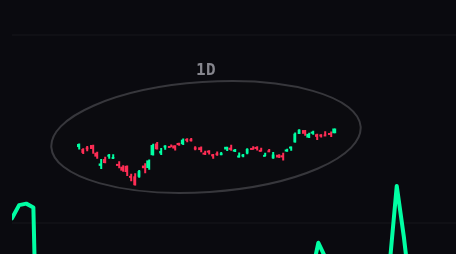
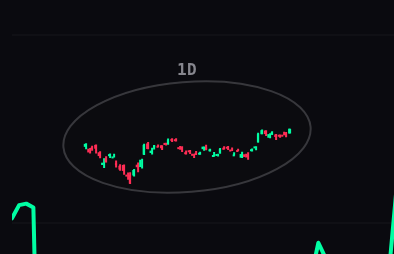
S8: the phone lens smaller — the oval's long axis 0.32 of the pane width on a phone (was 0.40; desktop stays 0.28)
Coordinator, 2 Oct, after the first measurement: at 0.40 the phone oval covered as much as the card it replaced
(TARGETS 390: 47,216 → 49,988 px², +6%; INTRADAY 1H 390: 23,608 → 24,504, +4%). At 0.32, re-measured headlessly on
the same walls: TARGETS 390 47,216 → 38,482 px² (−18%, 3.2% → 2.6% of the panes; 125 × 48 ovals, AVGO 125 × 56);
INTRADAY 1H 390 23,608 → 19,635 px² (−17%). The share is the one constant OVAL.long.phone in
_indicators/station-lens.mjs, which both chart copies load; chart/index.html and station-shells/chart-v1/index.html
carry no number and stay byte-identical. The axis-length test pins 0.32 (390 px pane → 125 px long axis); the
deliverable page carries the new 390 before/after rows and pictures. 944 tests, the 18 known failures only.

diff --git a/deliverables/20261002/station-floorplan/STATION-OVAL-FLOORPLAN.html b/deliverables/20261002/station-floorplan/STATION-OVAL-FLOORPLAN.html
@@ -18,7 +18,7 @@ ol li, ul li{ margin:4px 0; max-width:900px; } .box{ background:var(--panel); bo
 a{ color:#9AB8E0; } @media (max-width:800px){ .pair{ grid-template-columns:1fr; } main{ padding:16px; } }
 </style></head><body><main>
 <h1>Station · the context lens as an oval, and the X-strip floor plan</h1>
-<div class=meta>2 Oct 2026 · branch <code>station/s8-oval-lens-floorplan-20261002</code> at <code>f57a346 (the lens) + the deliverable commit after it</code>, built on today's live Station (fa37455) · nothing deployed, nothing on your screen · every picture here was taken in a hidden browser</div>
+<div class=meta>2 Oct 2026 · branch <code>station/s8-oval-lens-floorplan-20261002</code> at <code>f57a346 (the lens) · b966dbb (this page) · the 0.32 phone share commit after it</code>, built on today's live Station (fa37455) · nothing deployed, nothing on your screen · every picture here was taken in a hidden browser</div>
 
 <div class=box><b>In one minute.</b>
 <p>1 · The context lens (the small zoomed-out candle chart that sits in the empty part of each pane) is now an <b>oval</b> instead of a card. Its long side runs from the first candle to the last, so it tilts with the series; its short side is only as tall as the candles need. It covers about half of what the card covered. The deck's ⋯ menu has a switch: <b>lens: oval · box</b> (oval by default; box is the old card). Tests: 944, the 18 known failures only.</p>
@@ -28,17 +28,17 @@ a{ color:#9AB8E0; } @media (max-width:800px){ .pair{ grid-template-columns:1fr; 
 <blockquote>"Context lens oval-like shaped, from starting point to ending point, to save as much screen real estate as possible."</blockquote>
 <div class=pair><figure><img src='shots/before-targets3D-1680-pane.png' alt='BEFORE · TARGETS · 3-day · 1680 wide · the GOOGL pane with the card' loading='lazy'><figcaption>BEFORE · TARGETS · 3-day · 1680 wide · the GOOGL pane with the card</figcaption></figure><figure><img src='shots/after-targets3D-1680-pane.png' alt='AFTER · TARGETS · 3-day · 1680 wide · the GOOGL pane with the oval' loading='lazy'><figcaption>AFTER · TARGETS · 3-day · 1680 wide · the GOOGL pane with the oval</figcaption></figure></div><div class=pair><figure><img src='shots/before-targets3D-1680-lens.png' alt='BEFORE · TARGETS · 3-day · 1680 wide · the card, close' loading='lazy'><figcaption>BEFORE · TARGETS · 3-day · 1680 wide · the card, close</figcaption></figure><figure><img src='shots/after-targets3D-1680-lens.png' alt='AFTER · TARGETS · 3-day · 1680 wide · the oval, close' loading='lazy'><figcaption>AFTER · TARGETS · 3-day · 1680 wide · the oval, close</figcaption></figure></div><div class=pair><figure><img src='shots/before-intraday1h-1680-pane.png' alt='BEFORE · INTRADAY · 1H · 1680 wide · the QQQ pane with the card' loading='lazy'><figcaption>BEFORE · INTRADAY · 1H · 1680 wide · the QQQ pane with the card</figcaption></figure><figure><img src='shots/after-intraday1h-1680-pane.png' alt='AFTER · INTRADAY · 1H · 1680 wide · the QQQ pane with the oval' loading='lazy'><figcaption>AFTER · INTRADAY · 1H · 1680 wide · the QQQ pane with the oval</figcaption></figure></div><div class=pair><figure><img src='shots/before-intraday1h-1680-lens.png' alt='BEFORE · INTRADAY · 1H · 1680 wide · the card, close' loading='lazy'><figcaption>BEFORE · INTRADAY · 1H · 1680 wide · the card, close</figcaption></figure><figure><img src='shots/after-intraday1h-1680-lens.png' alt='AFTER · INTRADAY · 1H · 1680 wide · the oval, close' loading='lazy'><figcaption>AFTER · INTRADAY · 1H · 1680 wide · the oval, close</figcaption></figure></div><div class=pair><figure><img src='shots/before-targets3D-390-pane.png' alt='BEFORE · TARGETS · 3-day · phone 390 · the GOOGL pane with the card' loading='lazy'><figcaption>BEFORE · TARGETS · 3-day · phone 390 · the GOOGL pane with the card</figcaption></figure><figure><img src='shots/after-targets3D-390-pane.png' alt='AFTER · TARGETS · 3-day · phone 390 · the GOOGL pane with the oval' loading='lazy'><figcaption>AFTER · TARGETS · 3-day · phone 390 · the GOOGL pane with the oval</figcaption></figure></div><div class=pair><figure><img src='shots/before-targets3D-390-lens.png' alt='BEFORE · TARGETS · 3-day · phone 390 · the card, close' loading='lazy'><figcaption>BEFORE · TARGETS · 3-day · phone 390 · the card, close</figcaption></figure><figure><img src='shots/after-targets3D-390-lens.png' alt='AFTER · TARGETS · 3-day · phone 390 · the oval, close' loading='lazy'><figcaption>AFTER · TARGETS · 3-day · phone 390 · the oval, close</figcaption></figure></div><div class=pair><figure><img src='shots/before-intraday1h-390-pane.png' alt='BEFORE · INTRADAY · 1H · phone 390 · the QQQ pane with the card' loading='lazy'><figcaption>BEFORE · INTRADAY · 1H · phone 390 · the QQQ pane with the card</figcaption></figure><figure><img src='shots/after-intraday1h-390-pane.png' alt='AFTER · INTRADAY · 1H · phone 390 · the QQQ pane with the oval' loading='lazy'><figcaption>AFTER · INTRADAY · 1H · phone 390 · the QQQ pane with the oval</figcaption></figure></div><div class=pair><figure><img src='shots/before-intraday1h-390-lens.png' alt='BEFORE · INTRADAY · 1H · phone 390 · the card, close' loading='lazy'><figcaption>BEFORE · INTRADAY · 1H · phone 390 · the card, close</figcaption></figure><figure><img src='shots/after-intraday1h-390-lens.png' alt='AFTER · INTRADAY · 1H · phone 390 · the oval, close' loading='lazy'><figcaption>AFTER · INTRADAY · 1H · phone 390 · the oval, close</figcaption></figure></div>
 <h3>What the pictures show</h3>
-<p>Before: a card with a cut corner, 93 × 62 px on an 8-up pane, with the timeframe in its head. After: the same candles inside an oval whose long axis is 28% of the pane's width (40% on a phone) and runs from the first candle to the last — a rising series tilts the oval up to the right, a falling one down. The short axis is the least that keeps every candle inside, plus 3 px of air, in 4 px steps so a tick does not resize it. No card, no head: the timeframe (and STALE when the bars are old) sits in a small row above the oval. The forming (dashed) candle stays. The oval goes exactly where the card's rule put the card: the emptiest dark space, never over the newest fifth of the line, never on the ticker badge, the Geiger chip, the crosshair readout or the deck's arrows; bottom-left when that is as empty as anywhere; it holds its place until somewhere is clearly emptier.</p>
+<p>Before: a card with a cut corner, 93 × 62 px on an 8-up pane, with the timeframe in its head. After: the same candles inside an oval whose long axis is 28% of the pane's width (32% on a phone — the first build used 40%, which covered as much as the card there; 0.32 was set after that measurement) and runs from the first candle to the last — a rising series tilts the oval up to the right, a falling one down. The short axis is the least that keeps every candle inside, plus 3 px of air, in 4 px steps so a tick does not resize it. No card, no head: the timeframe (and STALE when the bars are old) sits in a small row above the oval. The forming (dashed) candle stays. The oval goes exactly where the card's rule put the card: the emptiest dark space, never over the newest fifth of the line, never on the ticker badge, the Geiger chip, the crosshair readout or the deck's arrows; bottom-left when that is as empty as anywhere; it holds its place until somewhere is clearly emptier.</p>
 <h3>Pixels covered, pane by pane (measured on the pictures above)</h3>
-<table><tr><th>wall</th><th class=n>panes</th><th class=n>covered before (card)</th><th class=n>covered after (oval)</th><th class=n>change</th><th class=n>share of the pane, before → after</th></tr><tr><td>TARGETS · 3-day · 1680 wide</td><td class=n>8 panes</td><td class=n>44,012</td><td class=n>35,288</td><td class=n><span class='up'>-20%</span></td><td class=n>5.0% → 4.0%</td></tr><tr><td>INTRADAY · 1H · 1680 wide</td><td class=n>4 panes</td><td class=n>42,022</td><td class=n>36,914</td><td class=n><span class='up'>-12%</span></td><td class=n>4.8% → 4.2%</td></tr><tr><td>TARGETS · 3-day · phone 390</td><td class=n>8 panes</td><td class=n>47,216</td><td class=n>49,988</td><td class=n><span class='down'>+6%</span></td><td class=n>3.2% → 3.4%</td></tr><tr><td>INTRADAY · 1H · phone 390</td><td class=n>4 panes</td><td class=n>23,608</td><td class=n>24,504</td><td class=n><span class='down'>+4%</span></td><td class=n>3.2% → 3.3%</td></tr></table>
-<h4>TARGETS · 3-day · 1680 wide</h4><table><tr><th>pane</th><th class=n>pane size</th><th class=n>covered before (card)</th><th class=n>covered after (oval)</th><th class=n>change</th><th class=n>the oval: long × short, tilt</th><th>where the rule put it</th></tr><tr><td><b>GOOGL</b></td><td class=n>419×263</td><td class=n>5,734</td><td class=n>4,411</td><td class=n><span class='up'>-23%</span></td><td class=n>117 × 48 px, -2°</td><td class=why>held: the emptiest dark space is not meaningfully emptier</td></tr><tr><td><b>NBIS</b></td><td class=n>419×263</td><td class=n>5,734</td><td class=n>4,411</td><td class=n><span class='up'>-23%</span></td><td class=n>117 × 48 px, +6°</td><td class=why>held: the emptiest dark space is not meaningfully emptier</td></tr><tr><td><b>AVGO</b></td><td class=n>419×263</td><td class=n>5,734</td><td class=n>5,146</td><td class=n><span class='up'>-10%</span></td><td class=n>117 × 56 px, +7°</td><td class=why>held: the emptiest dark space is not meaningfully emptier</td></tr><tr><td><b>BE</b></td><td class=n>419×263</td><td class=n>5,734</td><td class=n>4,411</td><td class=n><span class='up'>-23%</span></td><td class=n>117 × 48 px, +3°</td><td class=why>held: the emptiest dark space is not meaningfully emptier</td></tr><tr><td><b>AMZN</b></td><td class=n>419×263</td><td class=n>5,269</td><td class=n>4,411</td><td class=n><span class='up'>-16%</span></td><td class=n>117 × 48 px, +2°</td><td class=why>held: the emptiest dark space is not meaningfully emptier</td></tr><tr><td><b>VST</b></td><td class=n>419×263</td><td class=n>5,269</td><td class=n>3,676</td><td class=n><span class='up'>-30%</span></td><td class=n>117 × 40 px, -5°</td><td class=why>held: the emptiest dark space is not meaningfully emptier</td></tr><tr><td><b>MU</b></td><td class=n>419×263</td><td class=n>5,269</td><td class=n>4,411</td><td class=n><span class='up'>-16%</span></td><td class=n>117 × 48 px, +11°</td><td class=why>held: the emptiest dark space is not meaningfully emptier</td></tr><tr><td><b>WMT</b></td><td class=n>419×263</td><td class=n>5,269</td><td class=n>4,411</td><td class=n><span class='up'>-16%</span></td><td class=n>117 × 48 px, -7°</td><td class=why>held: the emptiest dark space is not meaningfully emptier</td></tr></table><h4>INTRADAY · 1H · 1680 wide</h4><table><tr><th>pane</th><th class=n>pane size</th><th class=n>covered before (card)</th><th class=n>covered after (oval)</th><th class=n>change</th><th class=n>the oval: long × short, tilt</th><th>where the rule put it</th></tr><tr><td><b>QQQ</b></td><td class=n>840×263</td><td class=n>11,168</td><td class=n>10,336</td><td class=n><span class='up'>-7%</span></td><td class=n>235 × 56 px, +3°</td><td class=why>held: the emptiest dark space is not meaningfully emptier</td></tr><tr><td><b>BE</b></td><td class=n>840×263</td><td class=n>8,518</td><td class=n>10,336</td><td class=n><span class='down'>+21%</span></td><td class=n>235 × 56 px, +3°</td><td class=why>held: the emptiest dark space is not meaningfully emptier</td></tr><tr><td><b>AMZN</b></td><td class=n>840×263</td><td class=n>11,168</td><td class=n>8,859</td><td class=n><span class='up'>-21%</span></td><td class=n>235 × 48 px, +0°</td><td class=why>the emptiest dark space</td></tr><tr><td><b>VST</b></td><td class=n>840×263</td><td class=n>11,168</td><td class=n>7,383</td><td class=n><span class='up'>-34%</span></td><td class=n>235 × 40 px, -5°</td><td class=why>bottom-left (preferred; as empty as anywhere) (nothing clear of the line was emptier)</td></tr></table><h4>TARGETS · 3-day · phone 390</h4><table><tr><th>pane</th><th class=n>pane size</th><th class=n>covered before (card)</th><th class=n>covered after (oval)</th><th class=n>change</th><th class=n>the oval: long × short, tilt</th><th>where the rule put it</th></tr><tr><td><b>GOOGL</b></td><td class=n>390×473</td><td class=n>5,902</td><td class=n>5,881</td><td class=n><span class='up'>0%</span></td><td class=n>156 × 48 px, -1°</td><td class=why>held: the emptiest dark space is not meaningfully emptier</td></tr><tr><td><b>NBIS</b></td><td class=n>390×473</td><td class=n>5,902</td><td class=n>5,881</td><td class=n><span class='up'>0%</span></td><td class=n>156 × 48 px, +5°</td><td class=why>held: the emptiest dark space is not meaningfully emptier</td></tr><tr><td><b>AVGO</b></td><td class=n>390×473</td><td class=n>5,902</td><td class=n>7,841</td><td class=n><span class='down'>+33%</span></td><td class=n>156 × 64 px, +6°</td><td class=why>held: the emptiest dark space is not meaningfully emptier</td></tr><tr><td><b>BE</b></td><td class=n>390×473</td><td class=n>5,902</td><td class=n>5,881</td><td class=n><span class='up'>0%</span></td><td class=n>156 × 48 px, +3°</td><td class=why>held: the emptiest dark space is not meaningfully emptier</td></tr><tr><td><b>AMZN</b></td><td class=n>390×473</td><td class=n>5,902</td><td class=n>6,861</td><td class=n><span class='down'>+16%</span></td><td class=n>156 × 56 px, +1°</td><td class=why>held: the emptiest dark space is not meaningfully emptier</td></tr><tr><td><b>VST</b></td><td class=n>390×473</td><td class=n>5,902</td><td class=n>5,881</td><td class=n><span class='up'>0%</span></td><td class=n>156 × 48 px, -4°</td><td class=why>the emptiest dark space</td></tr><tr><td><b>MU</b></td><td class=n>390×473</td><td class=n>5,902</td><td class=n>5,881</td><td class=n><span class='up'>0%</span></td><td class=n>156 × 48 px, +9°</td><td class=why>held: the emptiest dark space is not meaningfully emptier</td></tr><tr><td><b>WMT</b></td><td class=n>390×473</td><td class=n>5,902</td><td class=n>5,881</td><td class=n><span class='up'>0%</span></td><td class=n>156 × 48 px, -6°</td><td class=why>held: the emptiest dark space is not meaningfully emptier</td></tr></table><h4>INTRADAY · 1H · phone 390</h4><table><tr><th>pane</th><th class=n>pane size</th><th class=n>covered before (card)</th><th class=n>covered after (oval)</th><th class=n>change</th><th class=n>the oval: long × short, tilt</th><th>where the rule put it</th></tr><tr><td><b>QQQ</b></td><td class=n>390×473</td><td class=n>5,902</td><td class=n>6,861</td><td class=n><span class='down'>+16%</span></td><td class=n>156 × 56 px, +4°</td><td class=why>held: the emptiest dark space is not meaningfully emptier</td></tr><tr><td><b>BE</b></td><td class=n>390×473</td><td class=n>5,902</td><td class=n>6,861</td><td class=n><span class='down'>+16%</span></td><td class=n>156 × 56 px, +4°</td><td class=why>held: the emptiest dark space is not meaningfully emptier</td></tr><tr><td><b>AMZN</b></td><td class=n>390×473</td><td class=n>5,902</td><td class=n>5,881</td><td class=n><span class='up'>0%</span></td><td class=n>156 × 48 px, +1°</td><td class=why>held: bottom-left (preferred; as empty as anywhere) is not meaningfully emptier</td></tr><tr><td><b>VST</b></td><td class=n>390×473</td><td class=n>5,902</td><td class=n>4,901</td><td class=n><span class='up'>-17%</span></td><td class=n>156 × 40 px, -7°</td><td class=why>bottom-left (preferred; as empty as anywhere)</td></tr></table>
+<table><tr><th>wall</th><th class=n>panes</th><th class=n>covered before (card)</th><th class=n>covered after (oval)</th><th class=n>change</th><th class=n>share of the pane, before → after</th></tr><tr><td>TARGETS · 3-day · 1680 wide</td><td class=n>8 panes</td><td class=n>44,012</td><td class=n>35,288</td><td class=n><span class='up'>-20%</span></td><td class=n>5.0% → 4.0%</td></tr><tr><td>INTRADAY · 1H · 1680 wide</td><td class=n>4 panes</td><td class=n>42,022</td><td class=n>36,914</td><td class=n><span class='up'>-12%</span></td><td class=n>4.8% → 4.2%</td></tr><tr><td>TARGETS · 3-day · phone 390</td><td class=n>8 panes</td><td class=n>47,216</td><td class=n>38,482</td><td class=n><span class='up'>-18%</span></td><td class=n>3.2% → 2.6%</td></tr><tr><td>INTRADAY · 1H · phone 390</td><td class=n>4 panes</td><td class=n>23,608</td><td class=n>19,635</td><td class=n><span class='up'>-17%</span></td><td class=n>3.2% → 2.7%</td></tr></table>
+<h4>TARGETS · 3-day · 1680 wide</h4><table><tr><th>pane</th><th class=n>pane size</th><th class=n>covered before (card)</th><th class=n>covered after (oval)</th><th class=n>change</th><th class=n>the oval: long × short, tilt</th><th>where the rule put it</th></tr><tr><td><b>GOOGL</b></td><td class=n>419×263</td><td class=n>5,734</td><td class=n>4,411</td><td class=n><span class='up'>-23%</span></td><td class=n>117 × 48 px, -2°</td><td class=why>held: the emptiest dark space is not meaningfully emptier</td></tr><tr><td><b>NBIS</b></td><td class=n>419×263</td><td class=n>5,734</td><td class=n>4,411</td><td class=n><span class='up'>-23%</span></td><td class=n>117 × 48 px, +6°</td><td class=why>held: the emptiest dark space is not meaningfully emptier</td></tr><tr><td><b>AVGO</b></td><td class=n>419×263</td><td class=n>5,734</td><td class=n>5,146</td><td class=n><span class='up'>-10%</span></td><td class=n>117 × 56 px, +7°</td><td class=why>held: the emptiest dark space is not meaningfully emptier</td></tr><tr><td><b>BE</b></td><td class=n>419×263</td><td class=n>5,734</td><td class=n>4,411</td><td class=n><span class='up'>-23%</span></td><td class=n>117 × 48 px, +3°</td><td class=why>held: the emptiest dark space is not meaningfully emptier</td></tr><tr><td><b>AMZN</b></td><td class=n>419×263</td><td class=n>5,269</td><td class=n>4,411</td><td class=n><span class='up'>-16%</span></td><td class=n>117 × 48 px, +2°</td><td class=why>held: the emptiest dark space is not meaningfully emptier</td></tr><tr><td><b>VST</b></td><td class=n>419×263</td><td class=n>5,269</td><td class=n>3,676</td><td class=n><span class='up'>-30%</span></td><td class=n>117 × 40 px, -5°</td><td class=why>held: the emptiest dark space is not meaningfully emptier</td></tr><tr><td><b>MU</b></td><td class=n>419×263</td><td class=n>5,269</td><td class=n>4,411</td><td class=n><span class='up'>-16%</span></td><td class=n>117 × 48 px, +11°</td><td class=why>held: the emptiest dark space is not meaningfully emptier</td></tr><tr><td><b>WMT</b></td><td class=n>419×263</td><td class=n>5,269</td><td class=n>4,411</td><td class=n><span class='up'>-16%</span></td><td class=n>117 × 48 px, -7°</td><td class=why>held: the emptiest dark space is not meaningfully emptier</td></tr></table><h4>INTRADAY · 1H · 1680 wide</h4><table><tr><th>pane</th><th class=n>pane size</th><th class=n>covered before (card)</th><th class=n>covered after (oval)</th><th class=n>change</th><th class=n>the oval: long × short, tilt</th><th>where the rule put it</th></tr><tr><td><b>QQQ</b></td><td class=n>840×263</td><td class=n>11,168</td><td class=n>10,336</td><td class=n><span class='up'>-7%</span></td><td class=n>235 × 56 px, +3°</td><td class=why>held: the emptiest dark space is not meaningfully emptier</td></tr><tr><td><b>BE</b></td><td class=n>840×263</td><td class=n>8,518</td><td class=n>10,336</td><td class=n><span class='down'>+21%</span></td><td class=n>235 × 56 px, +3°</td><td class=why>held: the emptiest dark space is not meaningfully emptier</td></tr><tr><td><b>AMZN</b></td><td class=n>840×263</td><td class=n>11,168</td><td class=n>8,859</td><td class=n><span class='up'>-21%</span></td><td class=n>235 × 48 px, +0°</td><td class=why>the emptiest dark space</td></tr><tr><td><b>VST</b></td><td class=n>840×263</td><td class=n>11,168</td><td class=n>7,383</td><td class=n><span class='up'>-34%</span></td><td class=n>235 × 40 px, -5°</td><td class=why>bottom-left (preferred; as empty as anywhere) (nothing clear of the line was emptier)</td></tr></table><h4>TARGETS · 3-day · phone 390</h4><table><tr><th>pane</th><th class=n>pane size</th><th class=n>covered before (card)</th><th class=n>covered after (oval)</th><th class=n>change</th><th class=n>the oval: long × short, tilt</th><th>where the rule put it</th></tr><tr><td><b>GOOGL</b></td><td class=n>390×473</td><td class=n>5,902</td><td class=n>4,712</td><td class=n><span class='up'>-20%</span></td><td class=n>125 × 48 px, -2°</td><td class=why>held: the emptiest dark space is not meaningfully emptier</td></tr><tr><td><b>NBIS</b></td><td class=n>390×473</td><td class=n>5,902</td><td class=n>4,712</td><td class=n><span class='up'>-20%</span></td><td class=n>125 × 48 px, +7°</td><td class=why>held: the emptiest dark space is not meaningfully emptier</td></tr><tr><td><b>AVGO</b></td><td class=n>390×473</td><td class=n>5,902</td><td class=n>5,498</td><td class=n><span class='up'>-7%</span></td><td class=n>125 × 56 px, +8°</td><td class=why>held: the emptiest dark space is not meaningfully emptier</td></tr><tr><td><b>BE</b></td><td class=n>390×473</td><td class=n>5,902</td><td class=n>4,712</td><td class=n><span class='up'>-20%</span></td><td class=n>125 × 48 px, +3°</td><td class=why>held: the emptiest dark space is not meaningfully emptier</td></tr><tr><td><b>AMZN</b></td><td class=n>390×473</td><td class=n>5,902</td><td class=n>4,712</td><td class=n><span class='up'>-20%</span></td><td class=n>125 × 48 px, +2°</td><td class=why>held: the emptiest dark space is not meaningfully emptier</td></tr><tr><td><b>VST</b></td><td class=n>390×473</td><td class=n>5,902</td><td class=n>4,712</td><td class=n><span class='up'>-20%</span></td><td class=n>125 × 48 px, -6°</td><td class=why>the emptiest dark space</td></tr><tr><td><b>MU</b></td><td class=n>390×473</td><td class=n>5,902</td><td class=n>4,712</td><td class=n><span class='up'>-20%</span></td><td class=n>125 × 48 px, +11°</td><td class=why>held: the emptiest dark space is not meaningfully emptier</td></tr><tr><td><b>WMT</b></td><td class=n>390×473</td><td class=n>5,902</td><td class=n>4,712</td><td class=n><span class='up'>-20%</span></td><td class=n>125 × 48 px, -7°</td><td class=why>held: the emptiest dark space is not meaningfully emptier</td></tr></table><h4>INTRADAY · 1H · phone 390</h4><table><tr><th>pane</th><th class=n>pane size</th><th class=n>covered before (card)</th><th class=n>covered after (oval)</th><th class=n>change</th><th class=n>the oval: long × short, tilt</th><th>where the rule put it</th></tr><tr><td><b>QQQ</b></td><td class=n>390×473</td><td class=n>5,902</td><td class=n>5,498</td><td class=n><span class='up'>-7%</span></td><td class=n>125 × 56 px, +5°</td><td class=why>held: the emptiest dark space is not meaningfully emptier</td></tr><tr><td><b>BE</b></td><td class=n>390×473</td><td class=n>5,902</td><td class=n>5,498</td><td class=n><span class='up'>-7%</span></td><td class=n>125 × 56 px, +5°</td><td class=why>held: the emptiest dark space is not meaningfully emptier</td></tr><tr><td><b>AMZN</b></td><td class=n>390×473</td><td class=n>5,902</td><td class=n>4,712</td><td class=n><span class='up'>-20%</span></td><td class=n>125 × 48 px, +1°</td><td class=why>held: the emptiest dark space is not meaningfully emptier</td></tr><tr><td><b>VST</b></td><td class=n>390×473</td><td class=n>5,902</td><td class=n>3,927</td><td class=n><span class='up'>-33%</span></td><td class=n>125 × 40 px, -9°</td><td class=why>held: bottom-left (preferred; as empty as anywhere) is not meaningfully emptier</td></tr></table>
 <h3>The whole wall</h3><div class=pair><figure><img src='shots/before-targets3D-1680.png' alt='BEFORE · the whole wall · TARGETS · 3-day · 1680×1000' loading='lazy'><figcaption>BEFORE · the whole wall · TARGETS · 3-day · 1680×1000</figcaption></figure><figure><img src='shots/after-targets3D-1680.png' alt='AFTER · the whole wall · TARGETS · 3-day · 1680×1000' loading='lazy'><figcaption>AFTER · the whole wall · TARGETS · 3-day · 1680×1000</figcaption></figure></div><div class=pair><figure><img src='shots/before-intraday1h-1680.png' alt='BEFORE · the whole wall · INTRADAY · 1H · 1680×1000' loading='lazy'><figcaption>BEFORE · the whole wall · INTRADAY · 1H · 1680×1000</figcaption></figure><figure><img src='shots/after-intraday1h-1680.png' alt='AFTER · the whole wall · INTRADAY · 1H · 1680×1000' loading='lazy'><figcaption>AFTER · the whole wall · INTRADAY · 1H · 1680×1000</figcaption></figure></div>
 <h3>The switch</h3>
 <p>Deck → the ⋯ button (bottom of the dock's "more" drawer) → <b>lens</b>: <b>oval</b> or <b>box</b>. It is remembered in that browser and every chart on the wall follows at once; a second Station window follows too. A single pane can be forced with <code>?lens=box</code> on its own address.</p>
 <h3>What could be wrong</h3>
 <ul><li>On a series whose first or last candle has a long wick, the oval has to grow taller to keep that wick inside (the tips of an oval are thin). It never grows taller than it is long.</li>
 <li>The oval's box is what the placement rule sees, so the rule is slightly more careful than it needs to be at the oval's corners (the corners of the box are empty).</li>
-<li>The phone test used the hidden browser's 390 px window; Alan's phone may give the pane a different width, and the long axis follows the pane.</li></ul>
+<li>The phone test used the hidden browser's 390 px window; Alan's phone may give the pane a different width, and the long axis follows the pane. At the first build's 40% phone share the oval covered 4–6% MORE than the card on the phone; at the shipped 32% it covers 17–19% less (the tables above).</li></ul>
 <h3>What I did not do</h3>
 <ul><li>Not deployed; not opened on your screen. The live Station still draws the card until this branch is merged and deployed.</li>
 <li>The lens-placement workshop pages under deliverables/20260924 still draw the card (they are records, not the Station).</li></ul>

diff --git a/deliverables/20261002/station-floorplan/harness/build-page.py b/deliverables/20261002/station-floorplan/harness/build-page.py
@@ -126,7 +126,7 @@ a{{ color:#9AB8E0; }} @media (max-width:800px){{ .pair{{ grid-template-columns:1
 <blockquote>"Context lens oval-like shaped, from starting point to ending point, to save as much screen real estate as possible."</blockquote>
 {pairs}
 <h3>What the pictures show</h3>
-<p>Before: a card with a cut corner, 93 × 62 px on an 8-up pane, with the timeframe in its head. After: the same candles inside an oval whose long axis is 28% of the pane's width (40% on a phone) and runs from the first candle to the last — a rising series tilts the oval up to the right, a falling one down. The short axis is the least that keeps every candle inside, plus 3 px of air, in 4 px steps so a tick does not resize it. No card, no head: the timeframe (and STALE when the bars are old) sits in a small row above the oval. The forming (dashed) candle stays. The oval goes exactly where the card's rule put the card: the emptiest dark space, never over the newest fifth of the line, never on the ticker badge, the Geiger chip, the crosshair readout or the deck's arrows; bottom-left when that is as empty as anywhere; it holds its place until somewhere is clearly emptier.</p>
+<p>Before: a card with a cut corner, 93 × 62 px on an 8-up pane, with the timeframe in its head. After: the same candles inside an oval whose long axis is 28% of the pane's width (32% on a phone — the first build used 40%, which covered as much as the card there; 0.32 was set after that measurement) and runs from the first candle to the last — a rising series tilts the oval up to the right, a falling one down. The short axis is the least that keeps every candle inside, plus 3 px of air, in 4 px steps so a tick does not resize it. No card, no head: the timeframe (and STALE when the bars are old) sits in a small row above the oval. The forming (dashed) candle stays. The oval goes exactly where the card's rule put the card: the emptiest dark space, never over the newest fifth of the line, never on the ticker badge, the Geiger chip, the crosshair readout or the deck's arrows; bottom-left when that is as empty as anywhere; it holds its place until somewhere is clearly emptier.</p>
 <h3>Pixels covered, pane by pane (measured on the pictures above)</h3>
 <table><tr><th>wall</th><th class=n>panes</th><th class=n>covered before (card)</th><th class=n>covered after (oval)</th><th class=n>change</th><th class=n>share of the pane, before → after</th></tr>{tot}</table>
 {''.join(lens_rows)}
@@ -136,7 +136,7 @@ a{{ color:#9AB8E0; }} @media (max-width:800px){{ .pair{{ grid-template-columns:1
 <h3>What could be wrong</h3>
 <ul><li>On a series whose first or last candle has a long wick, the oval has to grow taller to keep that wick inside (the tips of an oval are thin). It never grows taller than it is long.</li>
 <li>The oval's box is what the placement rule sees, so the rule is slightly more careful than it needs to be at the oval's corners (the corners of the box are empty).</li>
-<li>The phone test used the hidden browser's 390 px window; Alan's phone may give the pane a different width, and the long axis follows the pane.</li></ul>
+<li>The phone test used the hidden browser's 390 px window; Alan's phone may give the pane a different width, and the long axis follows the pane. At the first build's 40% phone share the oval covered 4–6% MORE than the card on the phone; at the shipped 32% it covers 17–19% less (the tables above).</li></ul>
 <h3>What I did not do</h3>
 <ul><li>Not deployed; not opened on your screen. The live Station still draws the card until this branch is merged and deployed.</li>
 <li>The lens-placement workshop pages under deliverables/20260924 still draw the card (they are records, not the Station).</li></ul>
